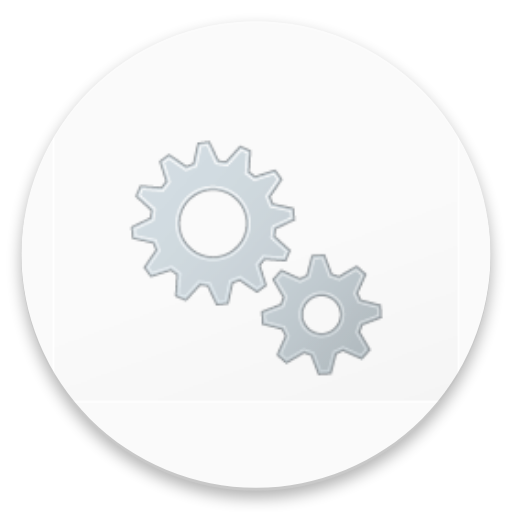
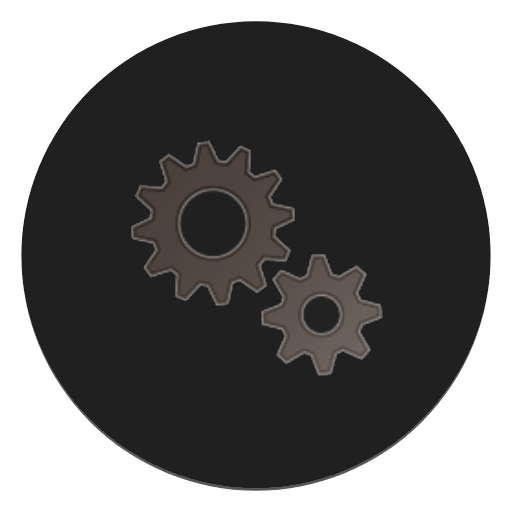
updated homepage

diff --git a/index.html b/index.html
@@ -187,9 +187,141 @@
             </div>
             <div class="shadow"></div>
             <div class="content fromRight">
-                <div class="row"><div class="tools tooltipped" data-position="bottom" data-delay="50" target="blank_" data-tooltip="HTML"><a href="https://www.w3schools.com/html/" target="blank_"><img src="images/tools/html.png" alt="HTML"></a></div><div class="tools tooltipped" data-position="bottom" data-delay="50" target="blank_" data-tooltip="CSS"><a href="https://www.w3schools.com/css/" target="blank_"><img src="images/tools/css.png" alt="CSS"></a></div><div class="tools tooltipped" data-position="bottom" data-delay="50" target="blank_" data-tooltip="Javascript"><a href="https://www.javascript.com/" target="blank_"><img src="images/tools/javascript.png" alt="Javascript"></a></div><div class="tools tooltipped" data-position="bottom" data-delay="50" target="blank_" data-tooltip="jQuery"><a href="https://jquery.com/" target="blank_"><img src="images/tools/jquery.png" alt="jQuery"></a></div><div class="tools tooltipped" data-position="bottom" data-delay="50" target="blank_" data-tooltip="Node.js"><a href="https://nodejs.org/" target="blank_"><img src="images/tools/nodejs.png" alt="Node.js"></a></div><div class="tools tooltipped" data-position="bottom" data-delay="50" target="blank_" data-tooltip="LessCSS"><a href="http://lesscss.org/" target="blank_"><img src="images/tools/lesscss.png" alt="LessCSS"></a></div><div class="tools tooltipped" data-position="bottom" data-delay="50" target="blank_" data-tooltip="Batch Files"><a href="https://github.com/samdenty99/MirumX" target="blank_"><img src="images/tools/batch.png" alt="Batch Files"></a></div><div class="tools tooltipped" data-position="bottom" data-delay="50" target="blank_" data-tooltip="Windows"><a href="https://www.microsoft.com/en-us/windows" target="blank_"><img src="images/tools/windows.png" alt="Windows"></a></div><div class="tools tooltipped" data-position="bottom" data-delay="50" target="blank_" data-tooltip="MS-DOS"><a href="https://en.wikipedia.org/wiki/MS-DOS" target="blank_"><img src="images/tools/msdos.png" alt="MS-DOS"></a></div><div class="tools tooltipped" data-position="bottom" data-delay="50" target="blank_" data-tooltip="Arduino"><a href="https://www.arduino.cc/" target="blank_"><img src="images/tools/arduino.png" alt="Arduino"></a></div><div class="tools tooltipped" data-position="bottom" data-delay="50" target="blank_" data-tooltip="C++"><a href="https://isocpp.org/" target="blank_"><img src="images/tools/c++.png" alt="C++"></a></div><div class="tools tooltipped" data-position="bottom" data-delay="50" target="blank_" data-tooltip="AutoHotkey"><a href="https://autohotkey.com/" target="blank_"><img src="images/tools/autohotkey.png" alt="AutoHotkey"></a></div><div class="tools tooltipped" data-position="bottom" data-delay="50" target="blank_" data-tooltip="Electron"><a href="https://electron.atom.io/" target="blank_"><img src="images/tools/electron.png" alt="Electron"></a></div><div class="tools tooltipped" data-position="bottom" data-delay="50" target="blank_" data-tooltip="GitHub (Git)"><a href="https://github.com" target="blank_"><img src="images/tools/github.png" alt="GitHub (Git)"></a></div><div class="tools tooltipped" data-position="bottom" data-delay="50" target="blank_" data-tooltip="VNC"><a href="https://www.realvnc.com/" target="blank_"><img src="images/tools/vnc.png" alt="VNC"></a></div><div class="tools tooltipped" data-position="bottom" data-delay="50" target="blank_" data-tooltip="Android (Xposed / ROM modification)"><a href="https://www.xda-developers.com/" target="blank_"><img src="images/tools/android.png" alt="Android"></a></div><div class="tools tooltipped" data-position="bottom" data-delay="50" target="blank_" data-tooltip="Android Studio"><a href="https://developer.android.com/studio/index.html" target="blank_"><img src="images/tools/androidstudio.png" alt="Android Studio"></a></div><div class="tools tooltipped" data-position="bottom" data-delay="50" target="blank_" data-tooltip="Inno Setup"><a href="http://www.jrsoftware.org/isinfo.php" target="blank_"><img src="images/tools/inno.png" alt="Inno Setup"></a></div><div class="tools tooltipped" data-position="bottom" data-delay="50" target="blank_" data-tooltip="Linux (Open Source Software & Bash)"><a href="https://github.com/torvalds/linux" target="blank_"><img src="images/tools/linux.png" alt="Linux (Open Source Software & Bash)"></a></div><div class="tools tooltipped" data-position="bottom" data-delay="50" target="blank_" data-tooltip="Kali Linux"><a href="https://www.kali.org/" target="blank_"><img src="images/tools/kali.png" alt="Kali Linux"></a></div><div class="tools tooltipped" data-position="bottom" data-delay="50" target="blank_" data-tooltip="VMWare (Virtual Machines)"><a href="https://www.vmware.com/" target="blank_"><img src="images/tools/vmware.png" alt="VMWare (Virtual Machines)"></a></div>
+                <div class="row">
+                    <div class="col s12 m4">
+                        <div class="center promo">
+                            <i class="material-icons">web</i>
+                            <p class="promo-caption">Web Design</p>
+                            <p class="light center">We did most of the heavy lifting for you to provide a default stylings that incorporate our custom components. Additionally, we refined animations and transitions to provide a smoother experience for developers.</p>
+                            <a class="waves-effect waves-light btn red lighten-2">See work</a>
+                        </div>
+                    </div>
+                    <div class="col s12 m4">
+                        <div class="center promo">
+                            <i class="material-icons">store</i>
+                            <p class="promo-caption">Brand identity</p>
+                            <p class="light center">By utilizing elements and principles of Material Design, we were able to create a framework that incorporates components and animations that provide more feedback to users. Additionally, a single underlying responsive system across all platforms allow for a more unified user experience.</p>
+                            <a class="waves-effect waves-light btn red lighten-2">See work</a>
+                        </div>
+                    </div>
+                    <div class="col s12 m4">
+                        <div class="center promo">
+                            <i class="material-icons">assignment</i>
+                            <p class="promo-caption">Software solutions</p>
+                            <p class="light center">We have provided detailed documentation as well as specific code examples to help new users get started. We are also always open to feedback and can answer any questions a user may have about Materialize.</p>
+                            <a class="waves-effect waves-light btn red lighten-2">See work</a>
+                        </div>
+                    </div>
+                </div>
+                <div class="carousel tools-container">
+                    <a class="carousel-item" href="#one!">
+                        <div class="tools tooltipped" data-position="bottom" data-delay="50" target="blank_" data-tooltip="HTML">
+                            <img src="images/tools/html.png" alt="HTML">
+                        </div>
+                    </a>
+                    <a class="carousel-item" href="#two!">
+                        <div class="tools tooltipped" data-position="bottom" data-delay="50" target="blank_" data-tooltip="jQuery">
+                            <img src="images/tools/jquery.png" alt="jQuery">
+                        </div>
+                    </a>
+                    <a class="carousel-item" href="#three!">
+                        <div class="tools tooltipped" data-position="bottom" data-delay="50" target="blank_" data-tooltip="Javascript">
+                            <img src="images/tools/javascript.png" alt="Javascript">
+                        </div>
+                    </a>
+                    <a class="carousel-item" href="#four!">
+                        <div class="tools tooltipped" data-position="bottom" data-delay="50" target="blank_" data-tooltip="CSS">
+                            <img src="images/tools/css.png" alt="CSS">
+                        </div>
+                    </a>
+                    <a class="carousel-item" href="#five!">
+                        <div class="tools tooltipped" data-position="bottom" data-delay="50" target="blank_" data-tooltip="VMWare (Virtual Machines)">
+                            <img src="images/tools/vmware.png" alt="VMWare (Virtual Machines)">
+                        </div>
+                    </a>
+                    <a class="carousel-item" href="#six!">
+                        <div class="tools tooltipped" data-position="bottom" data-delay="50" target="blank_" data-tooltip="LessCSS">
+                            <img src="images/tools/lesscss.png" alt="LessCSS">
+                        </div>
+                    </a>
+                    <a class="carousel-item" href="#seven!">
+                        <div class="tools tooltipped" data-position="bottom" data-delay="50" target="blank_" data-tooltip="Batch Files">
+                            <img src="images/tools/batch.png" alt="Batch Files">
+                        </div>
+                    </a>
+                    <a class="carousel-item" href="#eight!">
+                        <div class="tools tooltipped" data-position="bottom" data-delay="50" target="blank_" data-tooltip="Windows">
+                            <img src="images/tools/windows.png" alt="Windows">
+                        </div>
+                    </a>
+                    <a class="carousel-item" href="#nine!">
+                        <div class="tools tooltipped" data-position="bottom" data-delay="50" target="blank_" data-tooltip="MS-DOS">
+                            <img src="images/tools/msdos.png" alt="MS-DOS">
+                        </div>
+                    </a>
+                    <a class="carousel-item" href="#ten!">
+                        <div class="tools tooltipped" data-position="bottom" data-delay="50" target="blank_" data-tooltip="Arduino">
+                            <img src="images/tools/arduino.png" alt="Arduino">
+                        </div>
+                    </a>
+                    <a class="carousel-item" href="#eleven!">
+                        <div class="tools tooltipped" data-position="bottom" data-delay="50" target="blank_" data-tooltip="C++">
+                            <img src="images/tools/c++.png" alt="C++">
+                        </div>
+                    </a>
+                    <a class="carousel-item" href="#twelve!">
+                        <div class="tools tooltipped" data-position="bottom" data-delay="50" target="blank_" data-tooltip="AutoHotkey">
+                            <img src="images/tools/autohotkey.png" alt="AutoHotkey">
+                        </div>
+                    </a>
+                    <a class="carousel-item" href="#thirteen!">
+                        <div class="tools tooltipped" data-position="bottom" data-delay="50" target="blank_" data-tooltip="Electron">
+                            <img src="images/tools/electron.png" alt="Electron">
+                        </div>
+                    </a>
+                    <a class="carousel-item" href="#fourteen!">
+                        <div class="tools tooltipped" data-position="bottom" data-delay="50" target="blank_" data-tooltip="GitHub (Git)">
+                            <img src="images/tools/github.png" alt="GitHub (Git)">
+                        </div>
+                    </a>
+                    <a class="carousel-item" href="#fifteen!">
+                        <div class="tools tooltipped" data-position="bottom" data-delay="50" target="blank_" data-tooltip="VNC">
+                            <img src="images/tools/vnc.png" alt="VNC">
+                        </div>
+                    </a>
+                    <a class="carousel-item" href="#sixteen!">
+                        <div class="tools tooltipped" data-position="bottom" data-delay="50" target="blank_" data-tooltip="Android (Xposed / ROM modification)">
+                            <img src="images/tools/android.png" alt="Android">
+                        </div>
+                    </a>
+                    <a class="carousel-item" href="#seventeen!">
+                        <div class="tools tooltipped" data-position="bottom" data-delay="50" target="blank_" data-tooltip="Android Studio">
+                            <img src="images/tools/androidstudio.png" alt="Android Studio">
+                        </div>
+                    </a>
+                    <a class="carousel-item" href="#eighteen!">
+                        <div class="tools tooltipped" data-position="bottom" data-delay="50" target="blank_" data-tooltip="Inno Setup">
+                            <img src="images/tools/inno.png" alt="Inno Setup">
+                        </div>
+                    </a>
+                    <a class="carousel-item" href="#nineteen!">
+                        <div class="tools tooltipped" data-position="bottom" data-delay="50" target="blank_" data-tooltip="Linux (Open Source Software & Bash)">
+                            <img src="images/tools/linux.png" alt="Linux (Open Source Software & Bash)">
+                        </div>
+                    </a>
+                    <a class="carousel-item" href="#twenty!">
+                        <div class="tools tooltipped" data-position="bottom" data-delay="50" target="blank_" data-tooltip="Kali Linux">
+                            <img src="images/tools/kali.png" alt="Kali Linux">
+                        </div>
+                    </a>
+                    <a class="carousel-item" href="#twenty-one!">
+                        <div class="tools tooltipped" data-position="bottom" data-delay="50" target="blank_" data-tooltip="Node.js">
+                            <img src="images/tools/nodejs.png" alt="Node.js">
+                        </div>
+                    </a>
                 </div>
             </div>
+        </div>
         </div>
     </main>
     <footer class="page-footer">
@@ -242,6 +374,7 @@
         <form method="get" action="https://maker.ifttt.com/trigger/contact/with/key/_fkapjdJAPj6aKKtULQ0s/" target="contactFrame">
             <div class="modal-content">
                 <h4>Contact</h4>
+                <p>Want to make an inquiry? email me at <a href="mailto:business@samdd.me" class="teal-text" target="blank_">business@samdd.me</a></p>
                 <div class="row">
                     <div class="row">
                         <div class="input-field col s6">
@@ -255,7 +388,7 @@
                     </div>
                     <div class="row">
                         <div class="input-field col s12">
-                            <textarea id="message" class="materialize-textarea" name="value3" required></textarea>
+                            <textarea id="message" class="materialize-textarea" name="value3" required>Hey there,</textarea>
                             <label for="message">Message</label>
                         </div>
                     </div>

diff --git a/css/index.css b/css/index.css
@@ -29,18 +29,19 @@
   margin: 0 auto;
   border-radius: 10px 10px 0 0;
   padding: 9px;
-  background: rgba(24, 27, 31, 0.97);
+  background: #d68181;
+  box-shadow: 0px 2px 6px rgba(0,0,0,0.1)
 }
 .comp .mid {
   float: left;
   display: block;
   height: 100%;
   position: relative;
-  background-color: #abadc6;
+  background-color: #e4a9a9;
   width: 50%
 }
 .comp .mid.codigo {
-  background-color: #22262b
+  background-color: #a54949
 }
 .comp .site {
   overflow: hidden;
@@ -67,7 +68,7 @@
   -ms-flex-pack: start;
   justify-content: flex-start;
   border-radius: 4px 4px 0 0;
-  background-color: #afa895
+  background-color: #ef8e8e
 }
 .comp .site .cerrar>div {
   display: inline-block;
@@ -174,7 +175,7 @@
   padding: 11px 0 14px 14px
 }
 .comp .codigo .atr, .comp .codigo .cont, .comp .codigo .fun, .comp .codigo .var {
-  background-color: #ac5e47;
+  background-color: #e89b9b;
   -webkit-animation: code;
   animation: code;
   -webkit-animation-duration: .3s;
@@ -183,17 +184,17 @@
   animation-iteration-count: infinite
 }
 .comp .codigo .atr, .comp .codigo .cont, .comp .codigo .fun {
-  background-color: #464748;
+  background-color: #ff4e4e;
   -webkit-animation-duration: .5s;
   animation-duration: .5s
 }
 .comp .codigo .atr, .comp .codigo .fun {
-  background-color: #fbb053;
+  background-color: #fdba68;
   -webkit-animation-duration: .2s;
   animation-duration: .2s
 }
 .comp .codigo .atr {
-  background-color: #645572;
+  background-color: #822929;
   -webkit-animation-duration: .1s;
   animation-duration: .1s
 }
@@ -228,7 +229,7 @@
 .base {
   width: 290px;
   height: 10px;
-  background: #e0e2e2;
+  background: #efb7b7;
   display: block;
   margin: 0 auto;
   border-radius: 0 0 6px 6px
@@ -253,4 +254,21 @@
   position: absolute;
   margin-top: 300px;
   top: 0
+}
+@media only screen and (max-width: 991px) {
+    .base {
+        background: #727f86 !important;
+    }
+    .monitor {
+        background: #4F5B61 !important;
+    }
+    .comp .mid.codigo {
+        background: #3d4346 !important;
+    }
+    .comp .mid {
+        background: #8b8d8e !important;
+    }
+    .comp .site .cerrar {
+        background: #d0d0d0 !important;
+    }
 }

diff --git a/css/materialize.css b/css/materialize.css
@@ -1,3 +1,8 @@
+/* 
+theme-color: #2B363B;
+accent-color: #de5d5d;
+*/
+
 ::-webkit-scrollbar {
     width: 14px;
     background-color: #242E33
@@ -1661,11 +1666,11 @@ body {
     background: #fff;
     transform-origin: center bottom 0px;
     transform-origin: center bottom 0px;
-    transition: box-shadow .2s ease, transform 0.5s ease, margin 0.3s ease;
+    transition: box-shadow .1s linear, transform 0.5s ease, margin 0.1s linear;
     overflow: hidden;
 }
 body.tight .main-wrap {
-    transform: translateY(-83px) scale(0.8);
+    transform: translateY(-120px) scale(0.8);
     cursor: pointer;
     box-shadow: 0px 22px 54px rgba(0, 0, 0, 0.5);
     border-radius: 3px;
@@ -3797,7 +3802,7 @@ html {
         font-size: 14.5px;
     }
     .non-img .parallax {
-        background: -webkit-gradient(linear, 0% 0%, 100% 0%, from(rgb(50,64,71)), to(rgb(66,83,92)));
+        background: -webkit-gradient(linear, 0% 0%, 100% 0%, from(rgb(134, 39, 39)), to(rgb(179, 86, 86)))
     }
 }
 @media only screen and (min-width:1200px) {
@@ -7775,8 +7780,44 @@ spacer {
 }
 .tools {
     display: inline-block;
-    width: 14.2856%;
+    pointer-events:none;
+}
+.active .tools {
+    pointer-events: initial
 }
 .tools img {
     width: 100%;
+}
+.tools-container {
+    height: 300px;
+    overflow: initial;
+}
+.promo i {
+    font-size: 4.4rem;
+    color: #de5d5d;
+}
+.promo-caption {
+    font-size: 1.1rem;
+    font-weight: 500;
+    margin-top: 5px;
+    margin-bottom: 0;
+}
+@media only screen and (max-width: 601px) {
+    .promo i {
+        font-size: 8rem;
+    }
+    .promo-caption {
+        font-size: 1.9rem;
+        font-weight: 500;
+        margin-top: 5px;
+        margin-bottom: 0;
+    }
+    .promo {
+        padding-bottom: 40px;
+        margin-bottom: 40px;
+        border-bottom: 1px solid rgba(0,0,0,0.15)
+    }
+}
+.txt-rotate {
+    color: #ffdbdb;
 }

diff --git a/js/index.js b/js/index.js
@@ -11,20 +11,11 @@ var TxtRotate = function(el, toRotate, period) {
 TxtRotate.prototype.tick = function() {
   var i = this.loopNum % this.toRotate.length;
   var fullTxt = this.toRotate[i];
-
-  if (this.isDeleting) {
-    this.txt = fullTxt.substring(0, this.txt.length - 1);
-  } else {
-    this.txt = fullTxt.substring(0, this.txt.length + 1);
-  }
-
+  if (this.isDeleting) {this.txt = fullTxt.substring(0, this.txt.length - 1)} else {this.txt = fullTxt.substring(0, this.txt.length + 1)}
   this.el.innerHTML = '<span class="wrap">'+this.txt+'</span>';
-
   var that = this;
   var delta = 260 - Math.random() * 100;
-
   if (this.isDeleting) { delta /= 2; }
-
   if (!this.isDeleting && this.txt === fullTxt) {
     delta = this.period;
     this.isDeleting = true;
@@ -33,7 +24,6 @@ TxtRotate.prototype.tick = function() {
     this.loopNum++;
     delta = 500;
   }
-
   setTimeout(function() {
     that.tick();
   }, delta);
@@ -48,21 +38,8 @@ window.onload = function() {
       new TxtRotate(elements[i], JSON.parse(toRotate), period);
     }
   }
-  // INJECT CSS
   var css = document.createElement("style");
   css.type = "text/css";
   css.innerHTML = ".txt-rotate > .wrap { border-right: 0.08em solid #fff }";
   document.body.appendChild(css);
 };
-
-
-function SubForm() {
-    $.ajax({
-        url:'https://maker.ifttt.com/trigger/contact/with/key/_fkapjdJAPj6aKKtULQ0s/',
-        type:'post',
-        data:$('#contactForm').serialize(),
-        success:function(){
-            alert("worked");
-        }
-    });
-}

diff --git a/projects.html b/projects.html
@@ -127,7 +127,7 @@
                                 <span class="card-title">SD-Security</span>
                             </div>
                             <div class="card-content" style="min-height:142px">
-                                <p>4000 lines, 200 000 characters, 2 years of work. First 'project' that I programmed - age 11. A complex batch file that uses only native commands, to create a virtual environment complete with APIs, Plugins, Error Checking, Auto-Updater and more. </p><br>
+                                <p>4000 lines, 200 000 characters, 2 years of work. A complex batch file that uses only native commands, to create a virtual environment complete with APIs, Plugins, Error Checking, Auto-Updater and more. </p><br>
                                 <a class="github-button" href="https://github.com/samdenty99/SD-Security/subscription" data-icon="octicon-eye" data-show-count="true" aria-label="Watch samdenty99/SD-Security on GitHub" style="display:none">Watch</a>&nbsp;<a class="github-button" href="https://github.com/samdenty99/SD-Security" data-icon="octicon-star" data-show-count="true" aria-label="Star samdenty99/SD-Security on GitHub" style="display:none">Star</a>&nbsp;<a class="github-button" href="https://github.com/samdenty99/SD-Security/fork" data-icon="octicon-repo-forked" data-show-count="true" aria-label="Fork samdenty99/SD-Security on GitHub" style="display:none">Fork</a>
                             </div>
                             <div class="card-action">

diff --git a/js/custom.js b/js/custom.js
@@ -37,4 +37,5 @@
 /* Initiate contact popup */
 	$(document).ready(function(){
 		$('.modal').modal();
+		$('.carousel').carousel();
 	});
